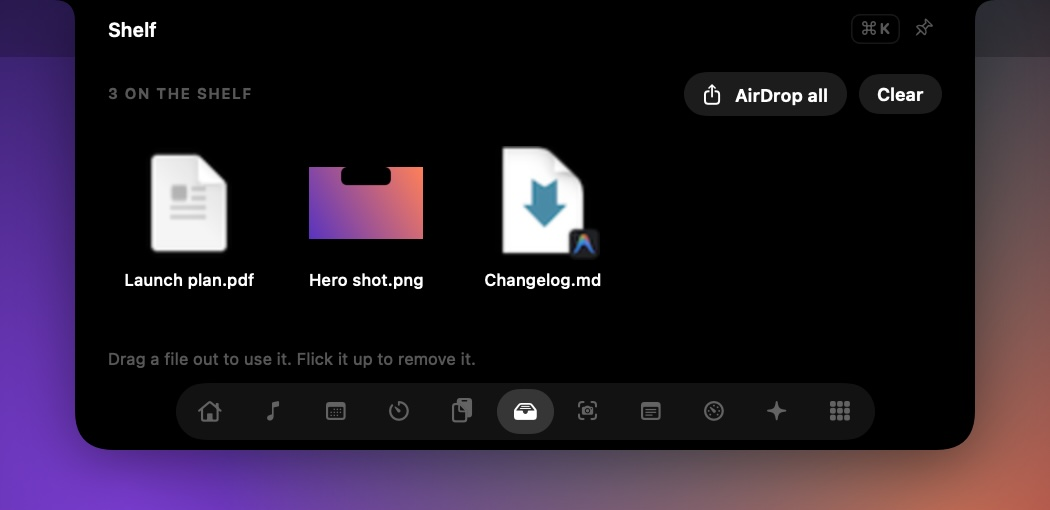
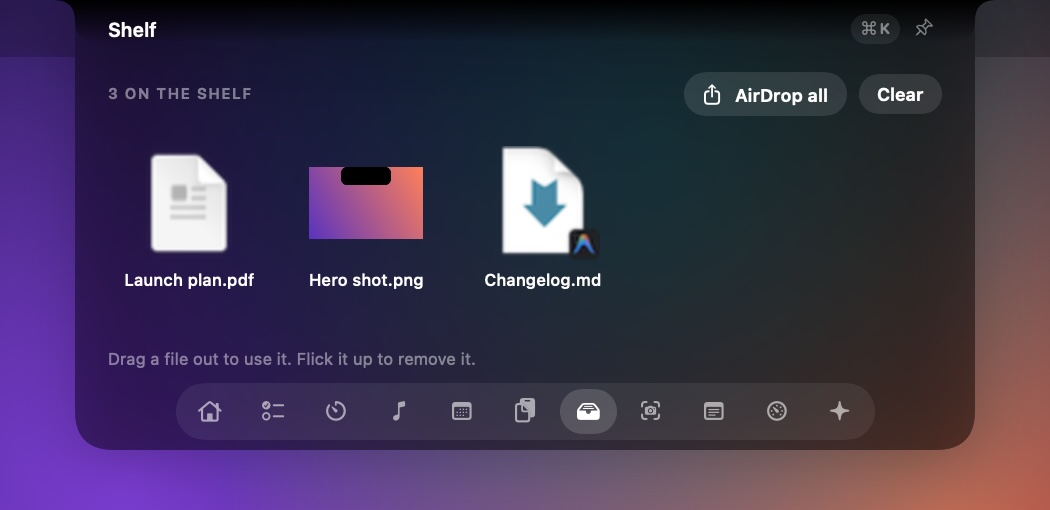
Rewrite the README with a feature list, Adiyogi and fuller performance
Adds a feature table, the Adiyogi ear shots, and measured CPU and memory
per state from docs/PERFORMANCE.md. Re-renders every product image from
the current build, since the dock order had changed.

diff --git a/README.md b/README.md
@@ -6,13 +6,15 @@
 
 <p align="center">
   <strong>Your MacBook's notch, put to work.</strong><br>
-  Your to-dos, music, calendar, timers, screenshots and Claude Code, all one hover away.
+  To-dos, music, calendar, timers, screenshots and Claude Code, one hover away.
 </p>
 
 <p align="center">
   <a href="#get-the-beta"><strong>Get the beta</strong></a>
   &nbsp;·&nbsp;
-  <a href="#everything-you-reach-for-in-one-place">Features</a>
+  <a href="#features">Features</a>
+  &nbsp;·&nbsp;
+  <a href="#light-on-your-battery">Performance</a>
   &nbsp;·&nbsp;
   <a href="#private-by-design">Privacy</a>
   &nbsp;·&nbsp;
@@ -27,43 +29,67 @@
 </p>
 
 <p align="center">
-  <img src="docs/images/hero.jpg" alt="The Xotch notch open at the top of a Mac screen, showing the time, the next meeting with a Join button, and the song playing">
+  <img src="docs/images/hero.jpg" alt="The Xotch notch open at the top of a Mac screen, showing the time, the mascot, the next meeting with a Join button, and the song playing">
 </p>
+
+## Features
+
+| | |
+|---|---|
+| **Home** | The time, your next meeting and what's playing |
+| **To-dos** | Today and someday lists; unfinished ones carry over to tomorrow |
+| **Now Playing** | Artwork, a dot-matrix track display and controls for any app playing audio |
+| **Calendar** | The next 7 days, one-click Join for Zoom, Meet and Teams, and reminders |
+| **Timers** | Focus sessions with breaks, countdowns, and a stopwatch with laps |
+| **Clipboard** | Searchable, pinnable history that skips password managers |
+| **Shelf** | Drop files on the notch, then drag them out or AirDrop them |
+| **Capture** | Screenshots and screen recordings with sound, kept on a shelf |
+| **Notes** | A scratchpad and notes that save as you type |
+| **System** | CPU, memory, network, disk and battery health |
+| **Claude Code** | Today's tokens, your streak, and live session status |
+| **Beside the notch** | Timers, music, Claude, recordings, downloads, volume and system gauges, shown without opening |
+| **Adiyogi** | A small Adiyogi bust in the left ear of the closed notch |
+| **Command palette** | ⌘K to open a module, start a timer, pause music or add a to-do |
+| **Themes** | Aero Glass, Midnight, Smoke Glass, Aurora, or your own colours |
+| **Sounds** | Optional 8-bit blips and jingles, generated in code |
+| **Any display** | Monitors without a notch get one drawn in the menu bar |
 
 ## Quiet until you need it
 
-Xotch lives in the notch and doesn't get in your way.
+Move the pointer to the notch and it grows a little. Keep it there and Xotch opens. Click, and it stays open until you press Esc or click somewhere else.
 
-- **Peek:** move the pointer to the notch and it grows slightly.
-- **Open:** keep the pointer there and Xotch opens.
-- **Keep it open:** click, and it stays open until you press Esc or click somewhere else.
+When the notch is closed and nothing is happening, Xotch uses no processor time at all.
 
-When the notch is closed and nothing's happening, Xotch uses no processor time at all.
+## Beside the camera
 
-## Live, right beside the camera
-
-When something's happening, the notch grows two small "ears" to show it, without opening.
+When something is going on, the notch grows two small ears to show it without opening.
 
 <table>
   <tr>
-    <td align="center" width="50%"><img src="docs/images/ears-timer.jpg" alt="A focus timer beside the notch, with a ring around its icon"><br><sub><b>Focus timer:</b> a ring fills as time passes</sub></td>
-    <td align="center" width="50%"><img src="docs/images/ears-music.jpg" alt="Album art and music bars beside the notch"><br><sub><b>Music:</b> artwork and bars that can follow the real sound</sub></td>
+    <td align="center" width="50%"><img src="docs/images/ears-adiyogi.jpg" alt="Adiyogi, a small bust with a topknot, crescent moon, closed eyes and a glowing third eye, in the left ear of the closed notch"><br><sub><b>Adiyogi</b> rests in the left ear, eyes closed, third eye glowing</sub></td>
+    <td align="center" width="50%"><img src="docs/images/ears-adiyogi-hud.jpg" alt="Adiyogi and four system gauge bars on the left of the notch, with Claude Code's status on the right"><br><sub>With the system gauges on and Claude working</sub></td>
   </tr>
   <tr>
-    <td align="center"><img src="docs/images/ears-claude.jpg" alt="Claude Code status beside the notch, reading Editing"><br><sub><b>Claude Code:</b> a soft pulse while it works; a faster one when it needs you</sub></td>
+    <td align="center"><img src="docs/images/ears-timer.jpg" alt="A focus timer beside the notch, with a ring around its icon"><br><sub><b>Focus timer:</b> a ring fills as time passes</sub></td>
+    <td align="center"><img src="docs/images/ears-music.jpg" alt="Album art and music bars beside the notch"><br><sub><b>Music:</b> artwork, and bars that can follow the real sound</sub></td>
+  </tr>
+  <tr>
+    <td align="center"><img src="docs/images/ears-claude.jpg" alt="Claude Code status beside the notch, reading Editing"><br><sub><b>Claude Code:</b> a soft pulse while it works, a faster one when it needs you</sub></td>
     <td align="center"><img src="docs/images/ears-recording.jpg" alt="A red dot and 2 minutes 14 seconds beside the notch, showing a screen recording in progress"><br><sub><b>Screen recording:</b> the time so far; click it to stop</sub></td>
   </tr>
   <tr>
     <td align="center"><img src="docs/images/ears-download.jpg" alt="Download progress at 62 percent beside the notch"><br><sub><b>Downloads:</b> how far along they are</sub></td>
-    <td align="center"><img src="docs/images/ears-hud.jpg" alt="Four small bars on the left of the notch showing CPU, memory, network and battery, with Claude Code's status on the right"><br><sub><b>System HUD:</b> CPU, memory, network and battery as bars in the left ear, beside whatever else is live</sub></td>
+    <td align="center"><img src="docs/images/ears-hud.jpg" alt="Four small bars on the left of the notch showing CPU, memory, network and battery, with Claude Code's status on the right"><br><sub><b>System gauges:</b> CPU, memory, network and battery as bars</sub></td>
   </tr>
   <tr>
-    <td align="center"><img src="docs/images/ears-volume.jpg" alt="A volume bar beside the notch"><br><sub><b>Volume and brightness:</b> scroll on the notch, or press the keys once you turn on the setting. The bar shows in the header if the notch is open</sub></td>
+    <td align="center"><img src="docs/images/ears-volume.jpg" alt="A volume bar beside the notch"><br><sub><b>Volume and brightness:</b> scroll on the notch, or use the keys once you turn on the setting</sub></td>
     <td></td>
   </tr>
 </table>
 
-If more than one thing is live, the most important shows, and small dots tell you others are waiting. The **system HUD** (Settings › System HUD, off by default) has the left ear to itself, so it shows alongside a timer, a song or Claude, whose icon moves next to its status on the right. It reads the stats every 2 seconds while it's on, and stops when a full-screen app hides the notch or your displays sleep. **Adiyogi** keeps the outer edge of the left ear, eyes closed, third eye glowing, and an activity's icon moves right beside its status (hide it in Settings › Appearance).
+Adiyogi keeps the outer edge of the left ear. When something else is live, its icon moves to the right, next to its status. If several things are live at once, the most important one shows and small dots tell you how many others are waiting. You can hide Adiyogi in Settings › Appearance.
+
+The system gauges are off by default (Settings › System HUD). While they're on, Xotch reads the stats every 2 seconds, and stops when a full-screen app hides the notch or your displays sleep. The volume and brightness keys are off by default too, because they need Accessibility permission. When the notch is open, the level shows in its header.
 
 ## Everything you reach for, in one place
 
@@ -90,29 +116,23 @@ If more than one thing is live, the most important shows, and small dots tell yo
   </tr>
 </table>
 
-**Also inside:**
-- **Home:** the time, your next meeting and what's playing.
-- **Notes:** a scratchpad that can sit beside the notch, and notes that save as you type.
+Home shows the time, your next meeting and what's playing. Notes gives you a scratchpad that can sit beside the notch, plus notes that save as you type.
 
 ## To-dos
 
-<img src="docs/images/module-todos.jpg" alt="To-dos: today's list under an add field">
+<img src="docs/images/module-todos.jpg" alt="To-dos: today's list under an add field, with a someday list below">
 
-Today's to-dos, and a someday list for the rest.
-
-- Type a to-do straight into the notch, or press ⌘K anywhere and say what you're doing.
-- Right-click a to-do to move it to today, tomorrow or someday.
-- Unfinished to-dos carry over to the next day rather than quietly disappearing.
+Today's to-dos, and a someday list for everything else. Type one straight into the notch, or press ⌘K anywhere and say what you're doing. Right-click a to-do to move it to today, tomorrow or someday. Anything you don't finish carries over to the next day instead of quietly disappearing.
 
 ## Screenshots and recordings
 
 <img src="docs/images/module-capture.jpg" alt="Capture: Screenshot and Record buttons for an area, a window or the screen, with recent captures below" align="right" width="46%">
 
-Take a screenshot of an area, a window or the whole screen, or record your screen with sound. It all lands on a shelf in the notch, ready to drag into a message.
+Take a screenshot of an area, a window or the whole screen, or record your screen with sound. Everything lands on a shelf in the notch, ready to drag into a message.
 
-The shelf picks up the screenshots you take with **⌘⇧3**, **⌘⇧4** and **⌘⇧5** too, so everything is in one place. Drag one out, AirDrop it, or flick it away.
+The shelf also picks up screenshots you take with **⌘⇧3**, **⌘⇧4** and **⌘⇧5**. Drag one out, AirDrop it, or flick it away.
 
-Screenshots are copied to your clipboard as they're taken, and saved in **Pictures › Xotch**. Recording needs macOS 15.
+Screenshots go to your clipboard as you take them, and are saved in **Pictures › Xotch**. Recording needs macOS 15.
 
 <br clear="right">
 
@@ -122,7 +142,7 @@ Screenshots are copied to your clipboard as they're taken, and saved in **Pictur
 
 See today's tokens, replies and streak, read from Claude Code's logs on your Mac.
 
-Add the hook, and each session shows whether it's working, needs you, or is done, right beside the camera. That means you can leave Claude running and get back to something else.
+Add the hook and every session shows whether it's working, needs you, or is done, right next to the camera. You can leave Claude running and get on with something else.
 
 <br clear="right">
 
@@ -143,14 +163,13 @@ Add the hook, and each session shows whether it's working, needs you, or is done
   </tr>
 </table>
 
-- **Aero Glass** is Frutiger Aero, the glossy look of Windows Aero and early Mac OS X: a bright band across the top of every button, bevelled edges, aqua-green accents and rounded type, on top of Liquid Glass. The other themes stay flat, and a custom theme can turn the gloss on or off.
-- **Arcade sound effects:** short 8-bit blips for opening and closing the notch, switching modules, adding, finishing and deleting to-dos, pinning, and a jingle for a finished timer or a celebration. They're generated in code, so nothing is bundled. Off by default: turn them on in Settings, with a volume slider.
-- **Your own theme:** pick the background, text, accent and glow colours. The closed notch always stays black, so it blends in with the camera.
-- **The mascot:** Xotch's little mascot lives on Home. It naps when things are quiet, thinks while you work, and jumps for joy when you finish a focus session.
-- **Your modules, your way:**
-  - Reorder or hide any module.
-  - Choose how the notch opens: hover or click.
-  - Choose which display it appears on — every screen by default. A display without a notch gets one drawn in its menu bar, sized to the screen, so an external monitor, an iMac, a Mac mini or a Studio all work.
+**Aero Glass** is Frutiger Aero, the glossy look of Windows Aero and early Mac OS X: a bright band across the top of every button, bevelled edges, aqua-green accents and rounded type, on top of Liquid Glass. The other themes stay flat. A custom theme lets you pick the background, text, accent and glow colours, and turn the gloss on or off. The closed notch always stays black so it blends in with the camera.
+
+**Arcade sound effects** are short 8-bit blips for opening and closing the notch, switching modules, adding, finishing and deleting to-dos, and pinning, with a jingle for a finished timer or a celebration. They're generated in code, so no sound files ship with the app. They're off by default; turn them on in Settings, where there's a volume slider.
+
+**The mascot** lives on Home. It naps when things are quiet, thinks while you work, and jumps for joy when you finish a focus session.
+
+You can also reorder or hide any module, choose whether the notch opens on hover or on click, and pick which displays it appears on. Every screen gets one by default. A display without a notch gets one drawn in its menu bar, sized to the screen, so an external monitor, an iMac, a Mac mini or a Studio all work.
 
 ## One shortcut for everything
 
@@ -164,9 +183,9 @@ Press **⌘K** in the open notch and type:
 | `10 min` | Start a 10-minute timer |
 | `pause` | Pause the music |
 | `shot` | Take a screenshot |
-| Anything else | Add it to today's to-dos |
 | `aurora` | Switch theme |
 | Something you copied | Copy it again |
+| Anything else | Add it to today's to-dos |
 
 <br clear="right">
 
@@ -174,19 +193,40 @@ Press **⌘K** in the open notch and type:
 
 | To | Do this |
 |---|---|
-| Switch module | ⌘1–⌘9, or swipe sideways with two fingers |
+| Switch module | ⌘1 to ⌘9, or swipe sideways with two fingers |
 | Change the volume | Scroll on the closed notch |
 | Remove a file from the Shelf | Flick it upwards |
 | Close | Esc, or click anywhere else |
 
+## Light on your battery
+
+The budget is under 0.5% CPU and under 80 MB of memory while idle, with nothing working in the background while the notch is closed. Anything that only matters on screen, like system stats, pauses when you can't see it.
+
+| State | CPU | Memory |
+|---|---|---|
+| Closed, nothing live | 0.00% | 18 MB |
+| Closed, music bars | 0.00% | 41 MB |
+| Closed, music bars following the real sound | 0.17% | 41 MB |
+| Closed, Claude working | 0.00% | 42 MB |
+| Closed, download progress | 0.00% | 47 MB |
+| Closed, timer counting down | 0.44% | 42 MB |
+| Closed, recording indicator | 0.42% | |
+| Open on Home | 0.00% | 32 MB |
+| Open on Now Playing | 0.10% | 38 MB |
+| Open on Calendar, Clipboard or Shelf | 0.00% | 36 to 37 MB |
+| Open on Timers | 0.10% | 44 MB |
+| Open on System | 0.60% | 38 MB |
+| Command palette | 0.10% | 54 MB |
+
+Measured on a 14-inch MacBook Pro with an M5 Pro chip, macOS 26.6.2, averaged over about 10 seconds per state. Recording the screen with system audio costs Xotch about 1% more; macOS does the video encoding in its own processes, so that part doesn't count against Xotch. The system gauges haven't been measured yet. Adiyogi is drawn once and never animates, so leaving it on doesn't wake Xotch up.
+
+The timer ring, the Claude pulse, the music bars, the mascot and the confetti are Core Animation layers. The window server animates them, and Xotch itself stays idle. Each extra display gets its own notch, so memory goes up per screen: about 80 MB with a second, ultra-wide monitor attached. The full numbers, the fixes behind them and how to reproduce them are in [docs/PERFORMANCE.md](docs/PERFORMANCE.md).
+
 ## Private by design
 
-- **No tracking:** no account, no analytics.
-- **Stays on your Mac:** your clipboard history, notes, to-dos and files never leave your Mac.
-- **Offline:** Xotch doesn't connect to any online service.
-- **Screenshots and recordings:** saved on your Mac, in Pictures › Xotch unless you choose another folder. Nothing is uploaded.
-- **Audio:** when the music bars follow the real sound, Xotch only measures how loud it is. Nothing is recorded.
-- **Crash reports:** never sent automatically. If you choose to keep them, you decide whether to email one.
+Xotch has no account and no analytics, and it doesn't connect to any online service. Your clipboard history, notes, to-dos and files stay on your Mac.
+
+Screenshots and recordings are saved in Pictures › Xotch unless you choose another folder, and nothing is uploaded. When the music bars follow the real sound, Xotch only measures how loud it is and records nothing. Crash reports are never sent automatically: if you choose to keep them, you decide whether to email one.
 
 <details>
 <summary><b>What Xotch asks permission for, and when</b></summary>
@@ -203,23 +243,13 @@ Xotch asks only when you use something that needs it.
 | System audio recording | You turn on real sound for the music bars | Measuring how loud the music is |
 | Screen Recording | Your first screenshot or recording in Capture | Taking the picture. Choosing a window to record uses macOS's own picker instead, which needs no permission |
 | Microphone | Only if you turn on Capture › Microphone | Recording your voice with the screen |
-| Desktop folder (may be asked) | Opening Capture, if it's listing your ⌘⇧3 and ⌘⇧4 screenshots | Finding those screenshots. macOS saves them to Desktop unless you've changed it |
+| Desktop folder (may be asked) | Opening Capture, if it's listing your ⌘⇧3 and ⌘⇧4 screenshots | Finding those screenshots, which macOS saves to Desktop unless you've changed it |
 | Downloads folder | macOS may ask when you turn on download progress | Showing how far downloads have got |
-| Accessibility | Only if you turn on **Settings › Show volume and brightness in the notch** | Reading the volume, mute and brightness keys so the notch can show the level in place of macOS's popup. It is off by default; Xotch reads only those keys and nothing else you type |
+| Accessibility | Only if you turn on **Settings › Show volume and brightness in the notch** | Reading the volume, mute and brightness keys so the notch can show the level in place of macOS's popup. Xotch reads only those keys and nothing else you type |
 
 Without that one setting, Xotch never asks for Accessibility or Input Monitoring.
 
 </details>
-
-## Light on your battery
-
-| When | Processor use |
-|---|---|
-| Closed, nothing happening | 0% |
-| Closed, with music, Claude Code or a download beside it | 0% |
-| Open, on any module | 0.6% or less |
-
-Measured on a 14-inch MacBook Pro with an M5 Pro chip. Anything that only matters on screen, like system stats, pauses when you can't see it.
 
 ## Get the beta
 
@@ -229,20 +259,16 @@ Xotch is in private beta. If you have an invite:
 2. Open Xotch. If macOS says it can't check the app, open **System Settings › Privacy & Security** and choose **Open Anyway**. Beta builds aren't signed yet; releases will be.
 3. Move the pointer to the notch. Xotch lives in the menu bar and has no Dock icon.
 
-**Requirements:**
-- macOS 14 Sonoma or later, on Apple silicon or Intel. It's best on a MacBook with a notch.
-- Liquid Glass needs macOS 26.
-- Music bars that follow the real sound need macOS 14.2.
-- Screen recording needs macOS 15. Screenshots work on all of them.
+Xotch needs macOS 14 Sonoma or later, on Apple silicon or Intel, and it's at its best on a MacBook with a notch. A few features need newer versions: Liquid Glass needs macOS 26, music bars that follow the real sound need macOS 14.2, and screen recording needs macOS 15. Screenshots work on all of them.
 
 <details>
 <summary><b>Connect Claude Code</b></summary>
 
 <br>
 
-- Usage stats work straight away, from Claude Code's logs on your Mac.
-- For live status, press **Add hook** in the Claude Code module. Xotch backs up `~/.claude/settings.json`, then adds a small entry so Claude Code can tell Xotch what it's doing.
-- **Remove hook** takes that entry out again.
+Usage stats work straight away, from Claude Code's logs on your Mac.
+
+For live status, press **Add hook** in the Claude Code module. Xotch backs up `~/.claude/settings.json`, then adds a small entry so Claude Code can tell Xotch what it's doing. **Remove hook** takes that entry out again.
 
 </details>
 
@@ -252,6 +278,12 @@ Xotch is in private beta. If you have an invite:
 <summary><b>The notch disappeared.</b></summary>
 
 Xotch steps aside while an app is full screen. To keep it, turn off **Settings › Display › Hide the notch while an app is full screen**.
+</details>
+
+<details>
+<summary><b>I can't see Adiyogi.</b></summary>
+
+Check that **Settings › Appearance › Show Adiyogi beside the closed notch** is on. Adiyogi shows in the left ear whenever the notch is closed.
 </details>
 
 <details>
@@ -275,15 +307,15 @@ Allow Xotch under **System Settings › Privacy & Security › Screen & System A
 <details>
 <summary><b>I don't have a notch.</b></summary>
 
-Then Xotch draws one. On a Mac without a notch — an iMac, a Mac mini, a Studio, an older MacBook — and on any external monitor, it draws a notch in that screen's menu bar, sized to the screen, and everything works the same. By default every display gets one; **Settings › Display** can narrow that to a single screen.
+Then Xotch draws one. On a Mac without a notch (an iMac, a Mac mini, a Studio, an older MacBook) and on any external monitor, it draws a notch in that screen's menu bar, sized to the screen, and everything works the same. By default every display gets one; **Settings › Display** can narrow that to a single screen.
 </details>
 
 <details>
 <summary><b>The notch slides across when I change desktop.</b></summary>
 
-macOS slides every window sideways as desktops change, and it won't let an app opt a window out — the notch is pinned to all desktops, and it still gets moved. It lands back in place when the animation finishes.
+macOS slides every window sideways as desktops change, and it won't let an app opt a window out. The notch is pinned to all desktops and still gets moved; it lands back in place when the animation finishes.
 
-To stop it, turn on **System Settings › Accessibility › Display › Reduce motion**: desktops then change without the sliding animation.
+To stop it, turn on **System Settings › Accessibility › Display › Reduce motion**. Desktops then change without the sliding animation.
 </details>
 
 <details>
@@ -305,7 +337,7 @@ Turn on **Settings › Show download progress**. Progress appears for apps that 
 </details>
 
 <details>
-<summary><b>⌘K or ⌘1–9 does nothing.</b></summary>
+<summary><b>⌘K or ⌘1 to ⌘9 does nothing.</b></summary>
 
 Click the notch first, so Xotch receives your keyboard input.
 </details>
@@ -321,8 +353,7 @@ Beta builds aren't signed yet, so macOS can ask again. Signed releases won't.
 
 1. If you added the Claude Code hook, press **Remove hook** in the Claude Code module.
 2. Quit Xotch from the menu bar icon and move it to the Trash.
-3. To remove everything else as well:
-   - delete `~/Library/Application Support/Xotch` and `~/Library/Preferences/com.pranava.xotch.plist`
+3. To remove everything else, delete `~/Library/Application Support/Xotch` and `~/Library/Preferences/com.pranava.xotch.plist`.
 </details>
 
 ## Feedback
